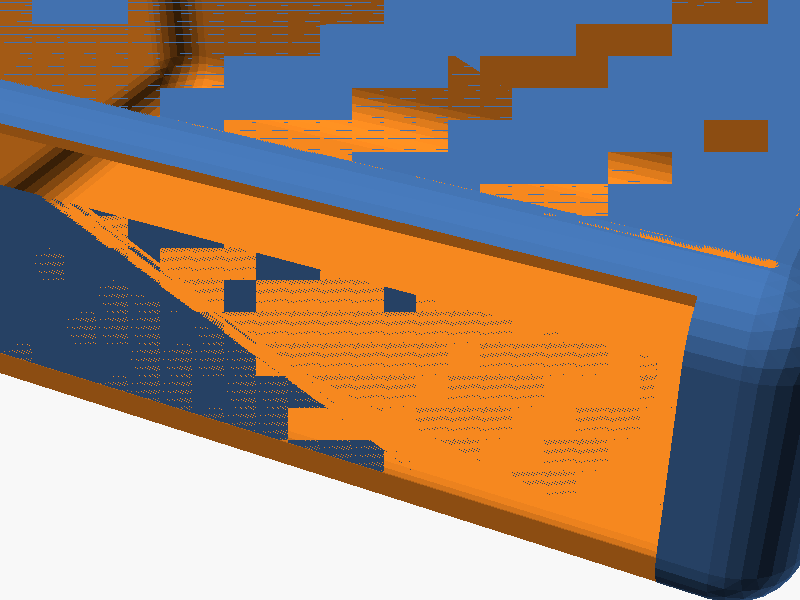
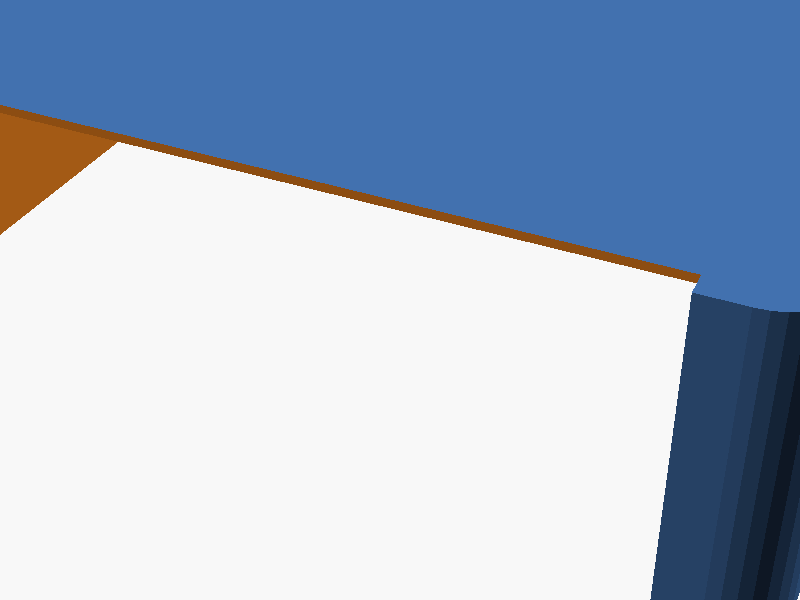
Learnings from attempts at examples

diff --git a/context-network/domains/bosl2-integration/common-mistakes.md b/context-network/domains/bosl2-integration/common-mistakes.md
@@ -15,9 +15,10 @@ A catalog of common mistakes when using BOSL2 in RetroCase, with corrections and
 |-------|-------|-----|
 | `pos.x, pos.y` | `pos[0], pos[1]` | OpenSCAD has no dot notation |
 | `edges=["front"]` | `edges=FWD` or `edges="Y"` | Edge specs use constants or axis strings |
-| `difference() { ... }` | `diff() { tag("remove") ... }` | Use tag-based ops with attachables |
 | `translate([x,y,z]) child()` | `position(RIGHT) child()` | Use attachment system |
 | `rounding=5, edges=[...]` together | Check cuboid vs prismoid rules | prismoid only rounds vertical edges |
+| `rounding=10` on thin dimension | `rounding=min(r, dim)` or `edges="Z"` | Rounding radius > dimension causes errors |
+| `diff()` with overlapping removes | Use `difference()` for complex booleans | Overlapping remove volumes cause preview artifacts |
 
 ## Detailed Explanations
 
@@ -178,6 +179,86 @@ cuboid(50) {
 - `attach()` positions AND reorients the child
 - `position()` only positions, child keeps its orientation
 
+### 8. Rounding Radius Larger Than Dimension
+
+**Wrong:**
+```openscad
+// lip_depth = 3, but rounding = 8
+cuboid(
+    [100, 80, 3],  // Z dimension is only 3
+    rounding = 8,  // ERROR: Can't round 8mm on 3mm dimension
+    anchor = TOP
+);
+```
+
+**Right:**
+```openscad
+// Option 1: Limit rounding to smallest dimension
+cuboid(
+    [100, 80, 3],
+    rounding = min(8, 3),  // Clamps to 3
+    anchor = TOP
+);
+
+// Option 2: Only round edges that can accommodate the radius
+cuboid(
+    [100, 80, 3],
+    rounding = 8,
+    edges = "Z",  // Only round vertical edges (not affected by Z dimension)
+    anchor = TOP
+);
+```
+
+**Why:** OpenSCAD cannot create a rounding larger than the dimension being rounded. This causes assertion errors or geometry failures. Always check that `rounding <= smallest_affected_dimension`.
+
+**Symptoms:**
+- Error: "Rounding or chamfering too large for cuboid size"
+- Geometry fails silently, producing unexpected shapes
+- STL export failures
+
+### 9. diff() Preview Artifacts with Overlapping Remove Volumes
+
+**Problem:**
+```openscad
+diff()
+cuboid([180, 120, 60], rounding=12, anchor=BOT) {
+    // Interior cavity
+    tag("remove")
+    position(TOP)
+    cuboid([174, 114, 57], rounding=9, anchor=TOP);
+
+    // Front opening (overlaps with cavity at intersection)
+    tag("remove")
+    position(FWD)
+    cuboid([140, 10, 80], anchor=FWD);
+}
+// Preview shows severe z-fighting/flickering at intersections!
+```
+
+**Solution:**
+```openscad
+// Use traditional difference() for complex boolean operations
+difference() {
+    cuboid([180, 120, 60], rounding=12, edges="Z", anchor=BOT);
+
+    // Interior cavity
+    translate([0, 0, 57])
+    cuboid([174, 114, 60], rounding=9, edges="Z", anchor=TOP);
+
+    // Front opening
+    translate([0, -60, 30])
+    cuboid([140, 10, 80], anchor=CENTER);
+}
+```
+
+**Why:** BOSL2's `diff()` with `tag("remove")` uses preview coloring that can produce severe visual artifacts when multiple remove volumes overlap or share faces. The actual STL geometry may be correct, but preview rendering breaks.
+
+**When to use each:**
+- `diff()` with tags: Simple hollowing, single remove volume, or non-overlapping removes
+- `difference()`: Multiple overlapping remove volumes, complex boolean intersections
+
+**Tip:** If you see z-fighting in preview but need to verify geometry, export to STL and check in another tool, or use F6 (full CGAL render) in OpenSCAD.
+
 ## Navigation
 
 **Up:** [`index.md`](index.md) - BOSL2 Integration overview
@@ -185,6 +266,7 @@ cuboid(50) {
 **Related:**
 - [`idioms.md`](idioms.md) - Correct patterns to use
 - [`attachment-system.md`](attachment-system.md) - How attachments work
+- [`diff-tagging.md`](diff-tagging.md) - Tag-based operations
 - [`../../docs/bosl2/attachments.md`](../../docs/bosl2/attachments.md) - BOSL2 docs
 
 ## Metadata

diff --git a/context-network/domains/bosl2-integration/diff-tagging.md b/context-network/domains/bosl2-integration/diff-tagging.md
@@ -205,6 +205,34 @@ cuboid(50) {
 }
 ```
 
+## Known Limitation: Preview Artifacts with Overlapping Removes
+
+**Important:** When multiple `tag("remove")` volumes overlap or share faces, OpenSCAD's preview rendering can produce severe z-fighting artifacts (flickering, scattered fragments).
+
+**Example that causes problems:**
+```openscad
+diff()
+shell_body() {
+    tag("remove") interior_cavity();   // Large internal void
+    tag("remove") front_opening();      // Cuts through front into cavity
+}
+// Preview may show glitchy rendering where opening meets cavity
+```
+
+**The STL output may still be correct**, but the preview is unreliable.
+
+**Solutions:**
+1. Use `difference()` instead of `diff()` for complex booleans
+2. Use F6 (full CGAL render) in OpenSCAD to verify geometry
+3. Export STL and check in another viewer
+
+**When to prefer `difference()` over `diff()`:**
+- Multiple overlapping remove volumes
+- Remove volumes that intersect with rounded surfaces
+- Complex shells with openings that cut into hollowed interiors
+
+See [`common-mistakes.md`](common-mistakes.md) for detailed examples.
+
 ## Navigation
 
 **Up:** [`index.md`](index.md) - BOSL2 Integration overview

diff --git a/context-network/meta/updates/index.md b/context-network/meta/updates/index.md
@@ -11,6 +11,29 @@ Tracking significant updates to the RetroCase context network.
 
 ## Recent Updates
 
+### 2025-12-21: BOSL2 Lessons from Example Rendering
+
+**Scope:** BOSL2 integration documentation
+
+**Modified:**
+- `domains/bosl2-integration/common-mistakes.md` - Added two new common mistakes:
+  - Rounding radius larger than dimension (causes assertion errors)
+  - diff() preview artifacts with overlapping remove volumes
+- `domains/bosl2-integration/diff-tagging.md` - Added "Known Limitation" section about preview artifacts
+
+**Fixed:**
+- `examples/03-hollow-shell-with-lip.scad` - Added `edges="Z"` to fix rounding > dimension error
+- `examples/04-shell-with-cutout.scad` - Rewrote to use `difference()` instead of `diff()` to avoid preview artifacts
+
+**Key Lessons:**
+1. Always check `rounding <= smallest_affected_dimension`
+2. Use `edges="Z"` when rounding shapes that will have boolean ops on non-vertical faces
+3. Prefer `difference()` over `diff()` for complex boolean operations with overlapping removes
+
+**Status:** Complete
+
+---
+
 ### 2025-12-21: Initial Context Network Creation
 
 **Scope:** Complete network setup
